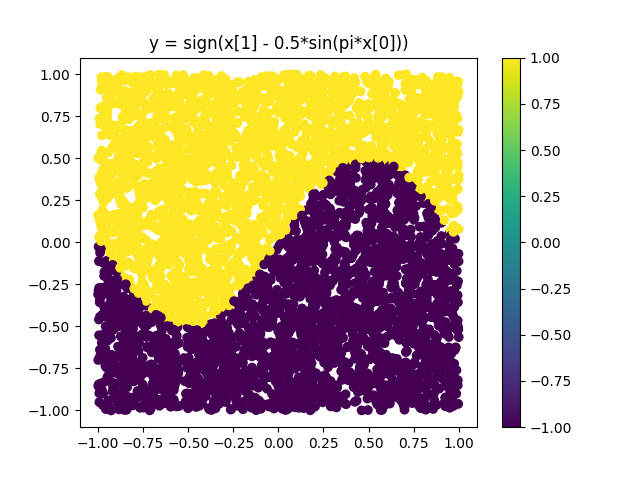
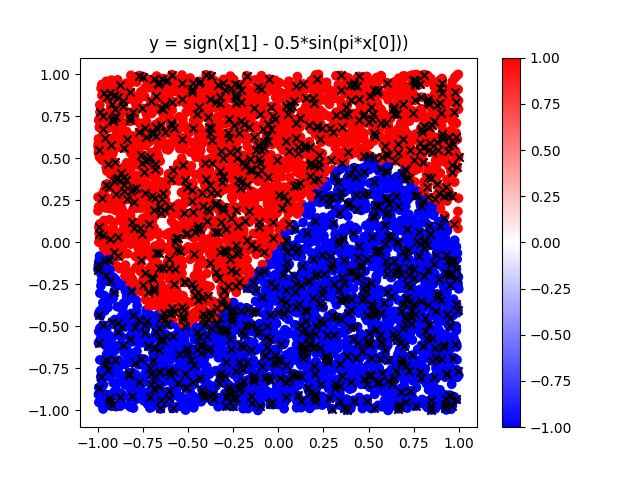
fixed graphs

diff --git a/experiment.py b/experiment.py
@@ -11,19 +11,19 @@ class Experiment:
     def __init__(self, **params):
         self.data = Data(**params)
         self.model = Model(**params)
-        self.report = None
+        self.report = {}
         os.makedirs('Files/Plots', exist_ok=True)
 
     def run(self):
         self.learn_training_sample()
-        report = {'timestamp': str(time())}
-        report.update(self.report_testing())
-        report.update(self.report_sparsity())
-        report.update(self.graph_interpolation())
-        report.update(self.data.describe())
-        report.update(self.model.describe())
-        self.report = report
-        return report        
+        self.report['timestamp'] = str(time())
+        self.report.update(self.report_testing())
+        self.report.update(self.report_sparsity())
+        self.report.update(self.graph_interpolation())
+        self.report.update(self.data.describe())
+        self.report.update(self.model.describe())
+        self.save()
+        return self.report.copy()        
 
     def save(self):
         path = 'Files/results.json'
@@ -37,8 +37,10 @@ class Experiment:
             fp.write(json.dumps(curr, indent=4))
 
     def learn_training_sample(self):
-        for x, y in self.data.training_iterator():
+        k = int(self.data.N * self.data.tr_sample)
+        for i, (x, y) in enumerate(self.data.training_iterator()):
             self.model.learn(x, y)
+            print(f"{i}/{k}")
 
     def report_testing(self):
         true, pred = [], []
@@ -54,16 +56,40 @@ class Experiment:
         return {'sparsity': self.model.sparsity()}
 
     def graph_interpolation(self):
+
+        def make_param_text():
+            text =  "Parameters:"
+            text += f"\n-N: {self.data.N}"
+            text += f"\n-Sample %: {self.data.N}"
+            text += f"\n-Architecture: {self.model.r1d}, {self.model.l2d}, {self.model.r2d}"
+            text += f"\n-Epochs: {self.model.epochs}"
+            text += f"\n-LR: {self.model.lr}"
+            text += f"\n-Reg. Scalar: {self.model.scale}"
+            text += f"\n-Regularization: {self.model.regularization}"
+            text += f"\n\nResult Stats:"
+            text += f"\n-Prediction err.: {np.round(self.report['pred_sq_err'], 2)}"
+            text += f"\n-Prediction acc.: {np.round(self.report['pred_acc'], 2)}"
+            text += f"\n-Sparsity:"
+            for i, s in enumerate(self.report['sparsity']):
+                text += f"\n     -L{i}: {s}"
+            return text
+
         fig, ax = plt.subplots()
         preds = []
         for i in range(self.data.N):
             preds.append(self.model.predict(self.data[i][0]))
         fig, ax = plt.subplots()
-        cbar = ax.scatter(self.data.X[:,0], self.data.X[:,1], c=preds)
+        cbar = ax.scatter(self.data.X[:,0], self.data.X[:,1], c=preds, cmap='bwr')
+        ax.scatter(self.data.X[self.data.tr_mask,0], self.data.X[self.data.tr_mask,1], marker='x', c='k')
         fig.colorbar(cbar)
         path = f"Files/Plots/{int(time()*1000)}.png"
         ax.set_title("Model interpolation")
-        fig.savefig(path)
+        ax.text(1.3, .5, make_param_text(),
+            horizontalalignment='left',
+            verticalalignment='center',
+            transform = ax.transAxes
+        )
+        fig.savefig(path, bbox_inches='tight')
         return {'plot_path': path}
 
 
@@ -74,5 +100,4 @@ if __name__ == '__main__':
         content = yaml.load(f, Loader=yaml.FullLoader)
     exp = Experiment(**content)
     exp.run()
-    exp.save()
     print(exp.report)

diff --git a/data.py b/data.py
@@ -3,21 +3,21 @@ from numpy.random import sample
 
 class Data:
 
-    def __init__(self, N=10, tr_sample=0.8, **kw):
+    def __init__(self, N=10, tr_sample=0.2, **kw):
         self.N = int(N)
         self.X = np.random.uniform(low=-1, high=1, size=(N, 2))
         self.Y = [self.fx(self.X[i,:]) for i in range(N)]
         self.tr_sample = float(tr_sample)
-        self.mask = np.array([False] * N)
-        self.mask[:int(self.N*self.tr_sample)] = True
-        np.random.shuffle(self.mask) 
+        self.tr_mask = np.array([False] * N)
+        self.tr_mask[:int(self.N*self.tr_sample)] = True
+        np.random.shuffle(self.tr_mask) 
 
     def training_iterator(self):
-        for i in np.where(self.mask)[0]:
+        for i in np.where(self.tr_mask)[0]:
             yield self[i]
 
     def testing_iterator(self):
-        for i in np.where(~self.mask)[0]:
+        for i in np.where(~self.tr_mask)[0]:
             yield self[i]
 
     def fx(self, x):
@@ -33,7 +33,8 @@ def sample_graph():
     import matplotlib.pyplot as plt
     data = Data(5000)
     fig, ax = plt.subplots()
-    cbar = ax.scatter(data.X[:,0], data.X[:,1], c=data.Y)
+    cbar = ax.scatter(data.X[:,0], data.X[:,1], c=data.Y, cmap='bwr')
+    ax.scatter(data.X[data.tr_mask,0], data.X[data.tr_mask,1], marker='x', c='k')
     fig.colorbar(cbar)
     ax.set_title("y = sign(x[1] - 0.5*sin(pi*x[0]))")
     fig.savefig("sample_data.png")
